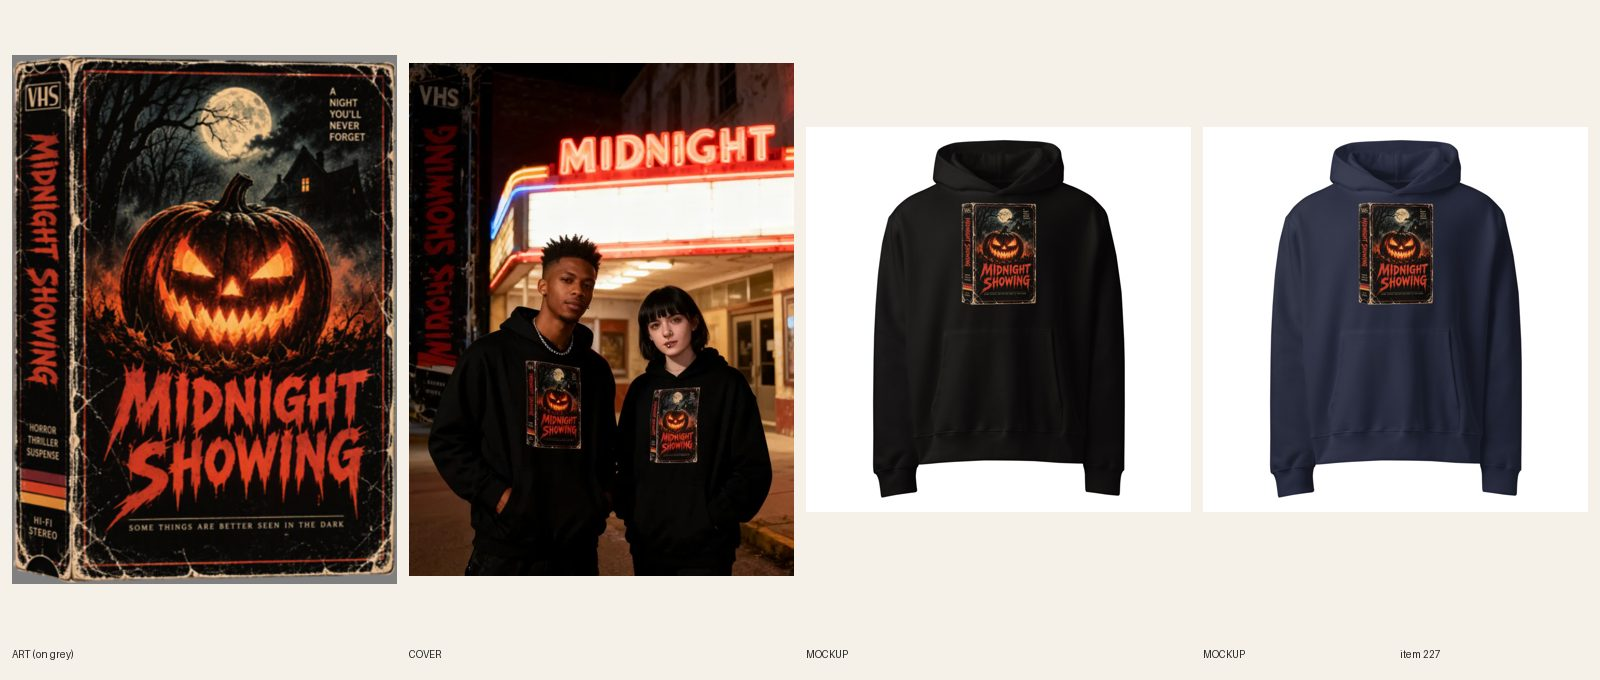
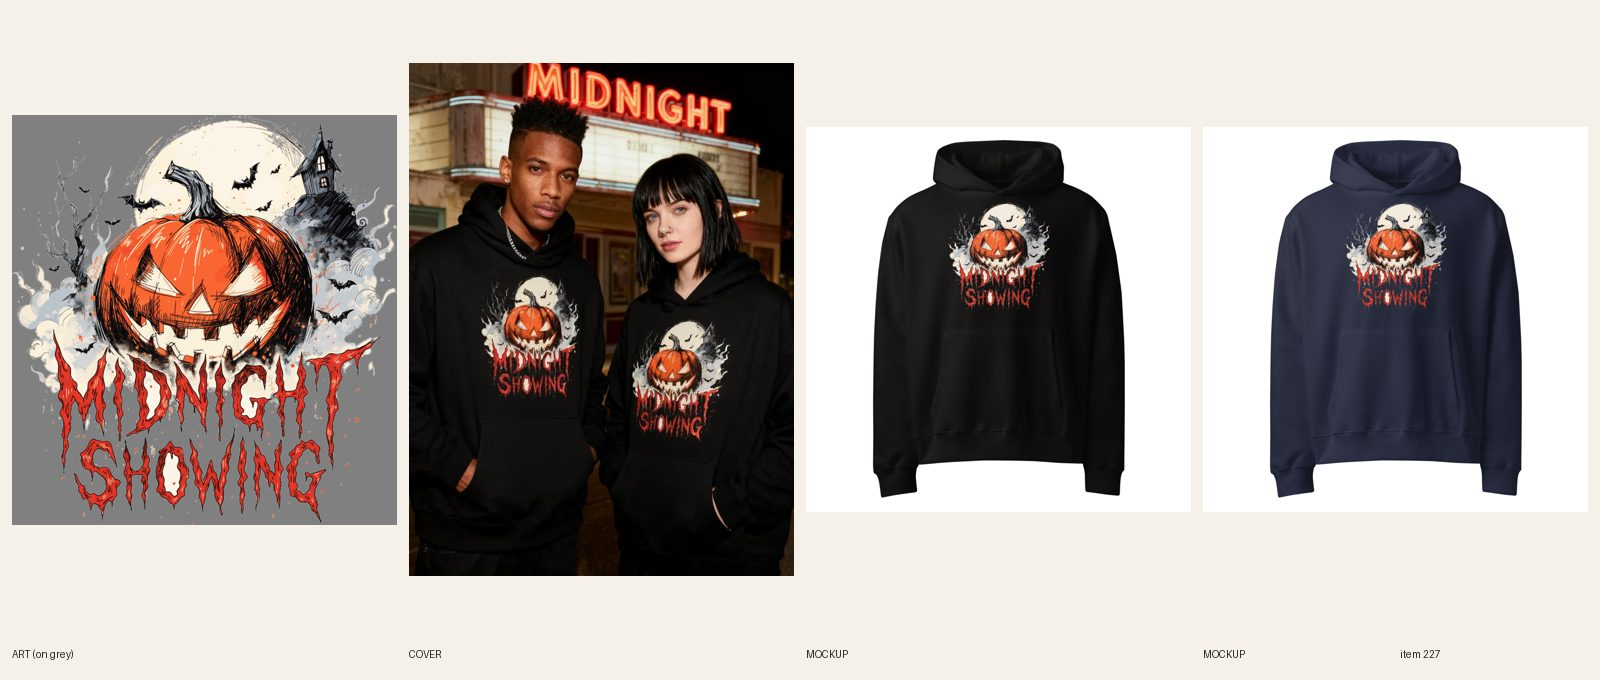
[B] review 223 226; redo 227 built (sync running)

diff --git a/docs/pipeline/227-horror-oversized-hoodie-night-shift.md b/docs/pipeline/227-horror-oversized-hoodie-night-shift.md
@@ -1,4 +1,4 @@
-status: REDO
+status: BUILDING [B] 2026-10-16 22:48
 lane: B
 type: twin
 id: 227
@@ -23,3 +23,4 @@ handle: unisex-horror-night-shift-oversized-hoodie
   1. R4.1: the whole print is a rectangular VHS case with a border and spine, a box/frame look, and it prints as a small rectangle on the oversized hoodie (R5.3.2).
   2. Redraw (one new Recraft v4 generation, max 2): the glowing jack-o'-lantern under a full moon with the haunted house behind, MIDNIGHT SHOWING in dripping hand-drawn letters, edges breaking up into worn print texture, no box, no spine, no border. Size it to fill the chest (about 12 in wide on the 4719).
   3. Keep the handle; the Story describes only what the new art shows (no 'VHS cover' wording unless the art still shows a tape). New mockups and cover (man AND woman, R6.3).
+- 2026-10-16 22:51 UTC [B]: REDO fix (round 1): redrawn without the case: Recraft v4 try 1 (jack-o'-lantern under a full moon, haunted house with a lit window, bats, MIDNIGHT SHOWING in dripping red hand-drawn letters, no frame/spine/border), print-prep to 3600 px (3600 x 3830), Printful file 1087876776, sized 10 in wide x 10.6 in tall (FW 1500 TOP 0; the front print area is 11 in square, 1650 px), reads on Black and Navy. Mockups replaced in place, copy rewritten (poster / art words only, the matching-tee FAQ dropped because the tee still has the old case art), new cover (registry #300 + #301, image 2 of 3). Set REVIEW at 12/12. Sheet docs/review/227.jpg.

diff --git a/docs/intake-log.md b/docs/intake-log.md
@@ -6,6 +6,7 @@
 2026-10-16 21:38 UTC — [A] BUILDING #218 Pink Christmas Trees, #219 O Holy Night, #220 Lit-Up Bow, #221 Christmas Nurse crewnecks (drafts, covers #291-294, mockups, audit PASS; syncs queued). Printful sync is the bottleneck (~1 variant/min shared with lane B): 23 lane A items wait at 0 to 57 variants synced; the runner dies with each container, rerun the setfile commands in each item's log (FORCE=1 only for items not yet synced).
 RUNNING lane A since 2026-10-16 21:15 UTC
 RUNNING lane B since 2026-10-16 21:12 UTC
+2026-10-16 22:52 UTC — [B] REDO fixes: #223 (line erased), #226 (counters knocked out) -> REVIEW; #227 redrawn (sync running).
 2026-10-16 22:41 UTC — [B] REVIEW #194 Morel Support and #195 Purrsonal Space embroidered crewnecks (synced).
 2026-10-16 22:36 UTC — [B] BUILDING #194 Morel Support (REVIEW at sync) and #195 Purrsonal Space embroidered crewnecks; #193 Whisk Taker in REVIEW.
 2026-10-16 22:15 UTC — [B] REVIEW #193 Whisk Taker embroidered crewneck (embroidery scripts added); BUILDING #194.

diff --git a/docs/pipeline/226-western-hoodie-howdy.md b/docs/pipeline/226-western-hoodie-howdy.md
@@ -1,4 +1,4 @@
-status: REDO
+status: REVIEW
 lane: B
 type: twin
 id: 226
@@ -23,3 +23,4 @@ handle: womens-western-howdy-hoodie
 - 2026-10-16 22:17 UTC director: REDO (product stays DRAFT). Notes:
   1. R5.3.8: the counters of the O and D (and the inner shapes of the W) print solid white; on the Navy cover they read as white blobs. Knock them out to the garment in print-prep, check on mid grey and Navy at 200%, re-upload, resync, new mockups. Cover only needs a redo if the white shows on it (it does on Navy: one attempt per R6.9).
 - 2026-10-16 22:48 UTC [B]: REDO fix (round 1): knocked the large white counters (O, D, W inner shapes) out of the tee file with knock-white.py (checked on Navy and mid grey), new Printful file 1087875196, re-sync FW 1650 TOP 0, new mockups replaced in place, cover regenerated (one attempt, registry #299, hands in the pouch, no white blobs). Set REVIEW at 14/14. Sheet docs/review/226.jpg.
+- 2026-10-16 22:52 UTC [B]: synced 14/14, REVIEW.

diff --git a/docs/pipeline/223-gym-hoodie-sore-since-1987.md b/docs/pipeline/223-gym-hoodie-sore-since-1987.md
@@ -1,4 +1,4 @@
-status: REDO
+status: REVIEW
 lane: B
 type: twin
 id: 223
@@ -23,3 +23,4 @@ handle: mens-gym-sore-since-1987-hoodie
   1. R3.7.6 / R4: the small line 'Iron & Sweat Dept.' is a default sans-serif font. Erase that line from the art in print-prep (no new generation needed), re-upload the Printful file, resync, new mockups and cover if the line shows on it.
   2. R8.3: remove 'with Iron & Sweat Dept. in small type beneath' from the Story once the line is gone.
 - 2026-10-16 22:48 UTC [B]: REDO fix (round 1): erased the small 'Iron & Sweat Dept.' line from both ink files (light file 1087873843, dark file 1087873854) in print-prep, resync (FW 1120 TOP 0, Sand light file, Navy dark file), new mockups replaced in place, copy sentence removed, new cover (registry #296, image 3 of 3). Set REVIEW at 14/14. Sheet docs/review/223.jpg.
+- 2026-10-16 22:52 UTC [B]: synced 14/14, REVIEW.
